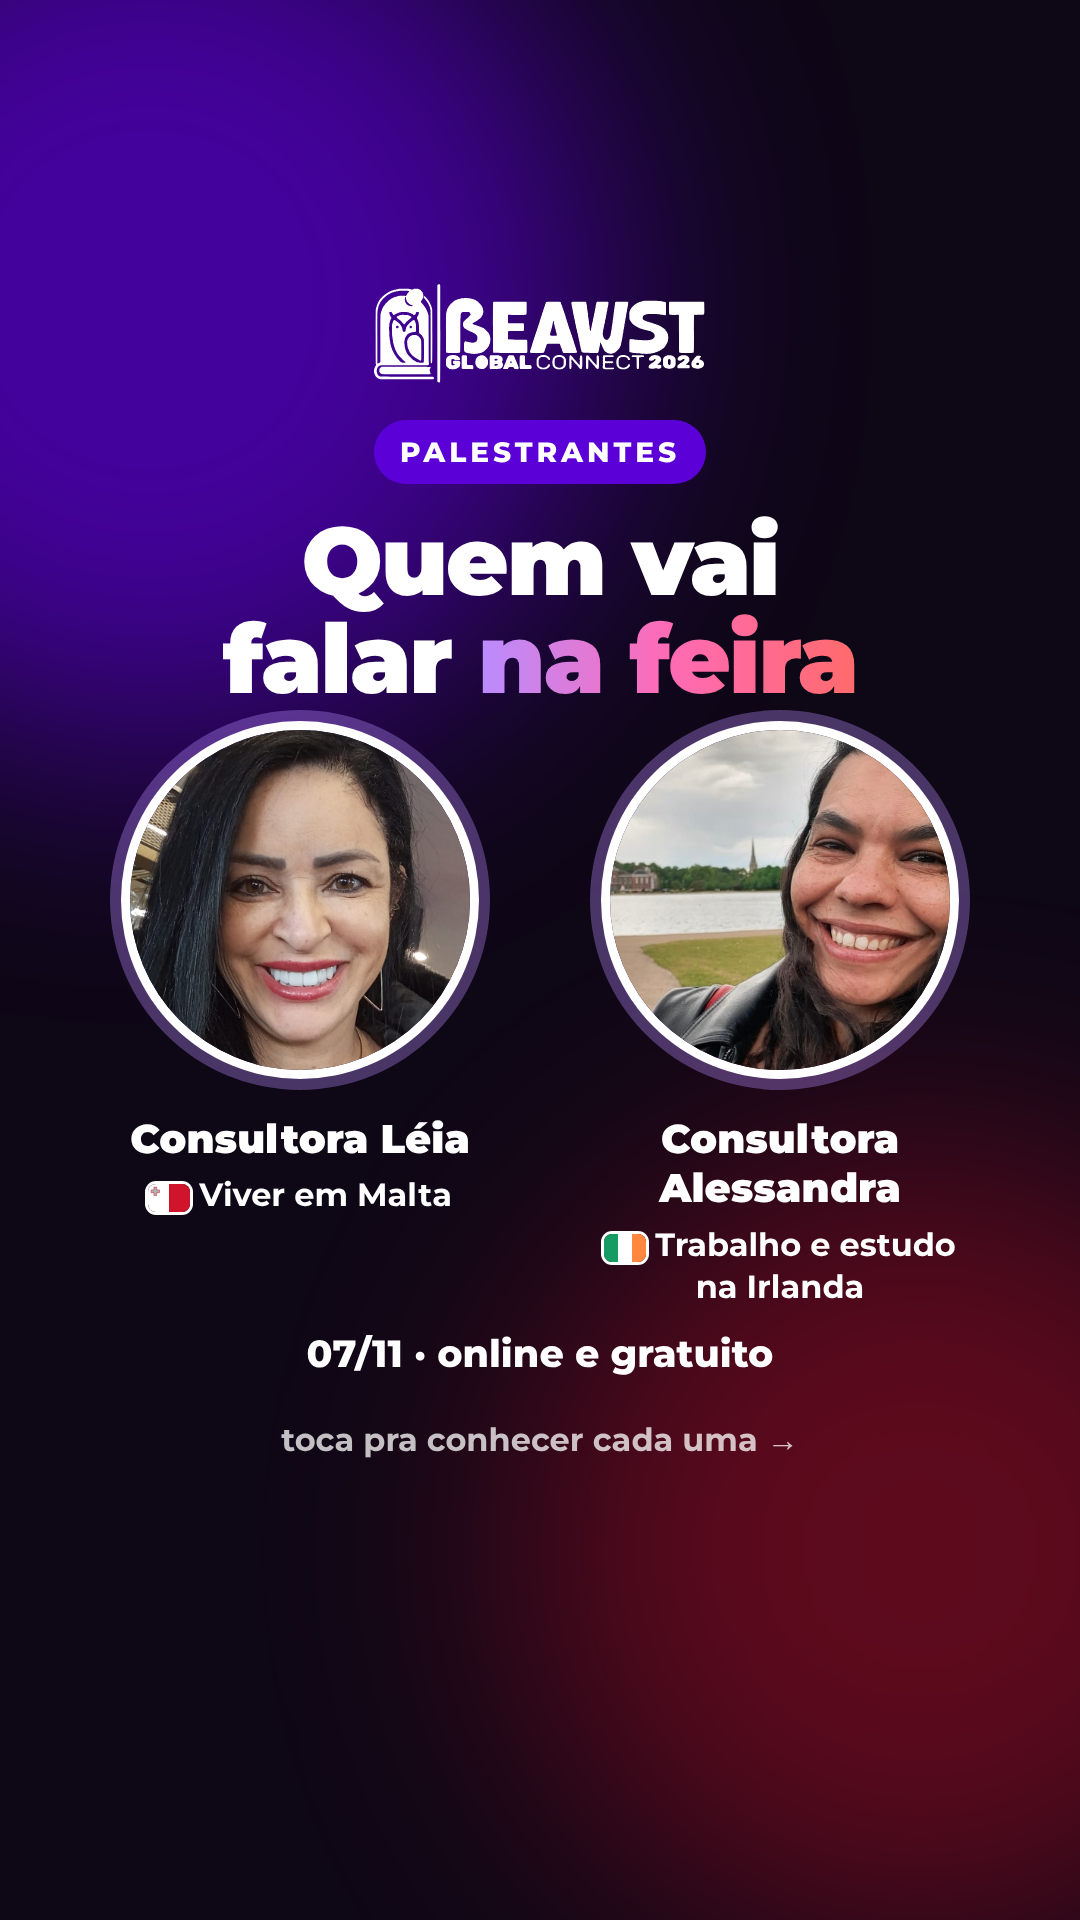
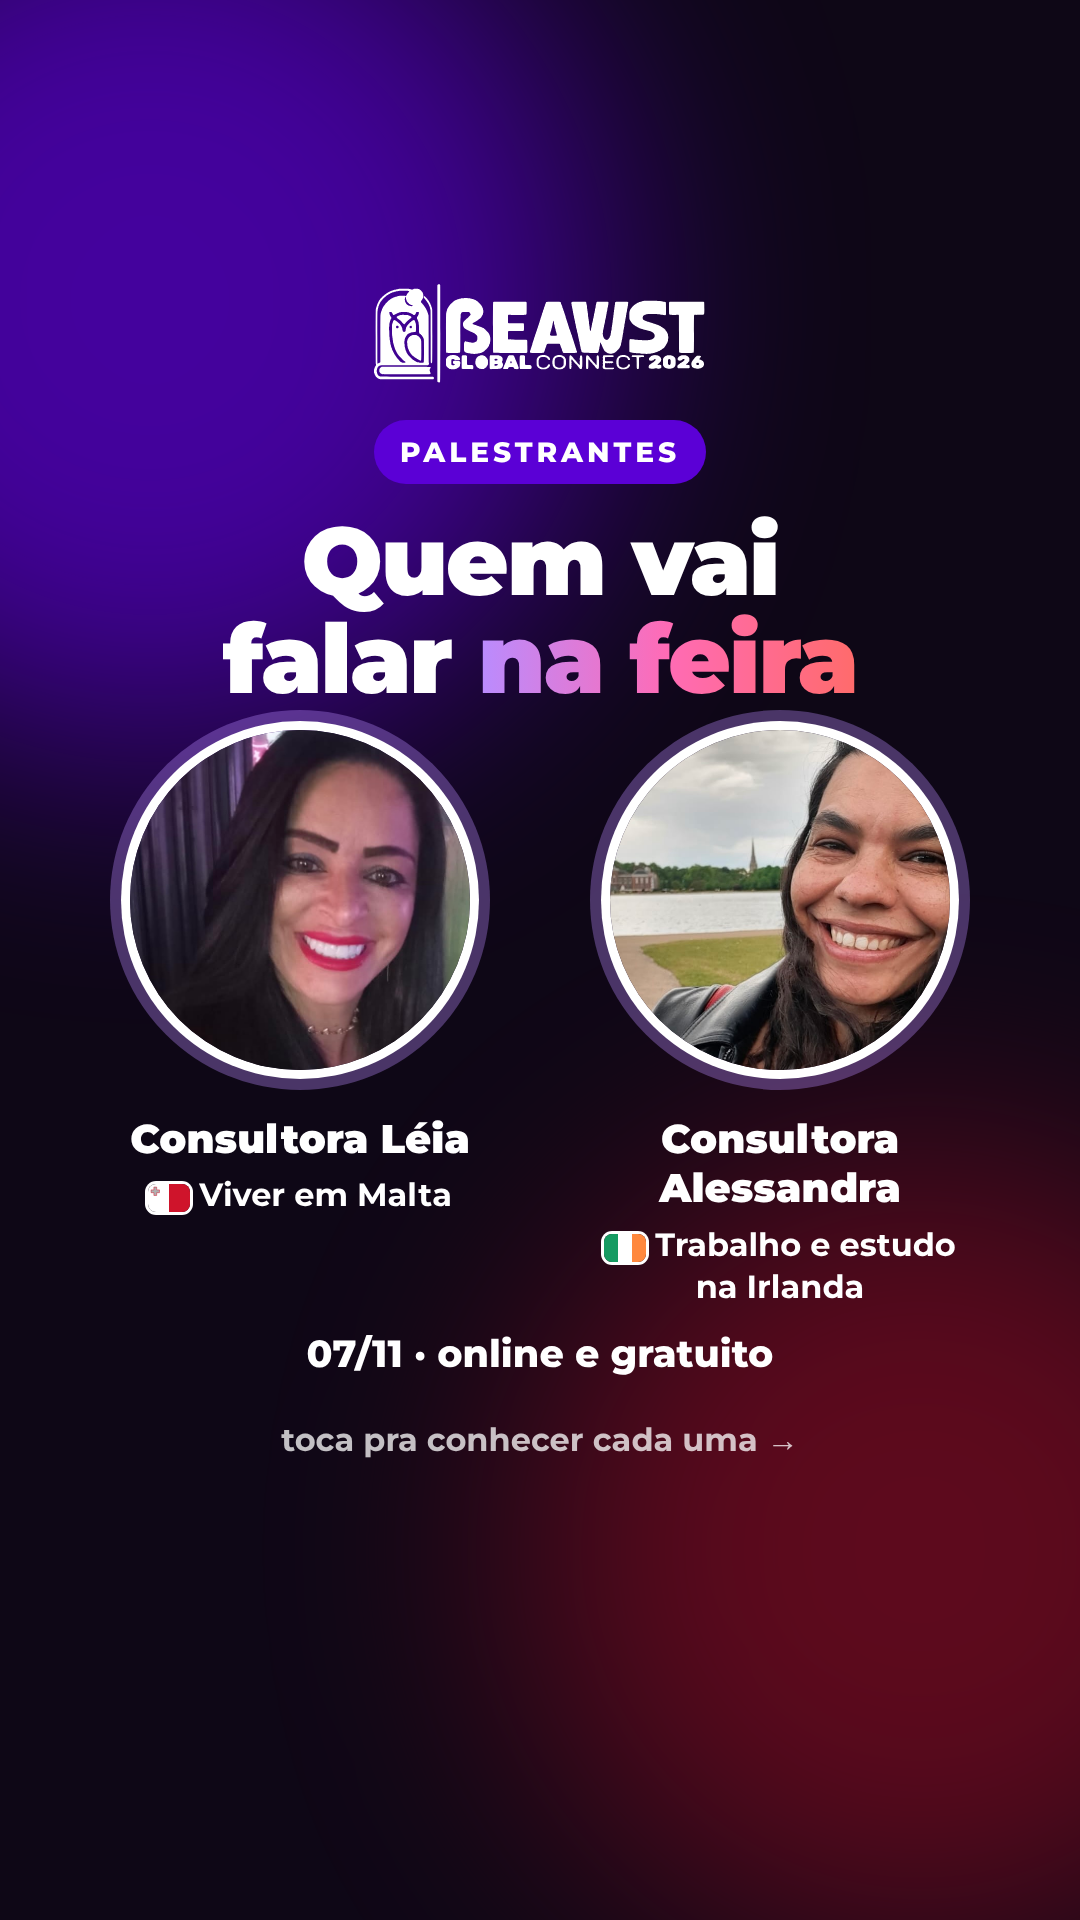
Nova foto da Consultora Léia em todas as peças
Claude-Session: https://claude.ai/code/session_01KyHVk97BxwCKQz2piQjfor

Changed region(s): [[0.1222, 0.375, 0.4278, 0.5625]]

diff --git a/beawst-stories-palestrantes/stories.html b/beawst-stories-palestrantes/stories.html
@@ -49,7 +49,7 @@ body.guia .guide{display:flex}
   <div class="abs c" style="top:420px"><span class="pill">palestrantes</span>
     <div class="huge" style="font-size:96px;margin-top:28px">Quem vai falar <span class="gradL">na feira</span></div></div>
   <div class="abs" style="left:110px;top:730px;width:380px;text-align:center">
-    <div class="circ" style="width:340px;height:340px;margin:0 auto"><img src="assets/leia.jpg" style="object-position:50% 42%;transform:scale(1.7);transform-origin:50% 46%"></div>
+    <div class="circ" style="width:340px;height:340px;margin:0 auto"><img src="assets/leia.jpg" style="object-position:55% 30%;transform:scale(1.02);transform-origin:58% 40%"></div>
     <div style="font-weight:900;font-size:40px;margin-top:44px">Consultora Léia</div>
     <div style="font-weight:700;font-size:32px;margin-top:12px"><span class="flag" style="width:42px;height:28px"><svg><use href="#malta"/></svg></span> Viver em Malta</div>
   </div>
@@ -70,7 +70,7 @@ body.guia .guide{display:flex}
     <span class="pill" style="background:#fff;color:var(--roxo)">palestrante</span>
     <img src="assets/logo-feira-branco.svg" style="width:260px;display:block"></div>
   <div class="card" style="left:220px;top:390px;width:640px;height:600px;transform:rotate(-2deg)">
-    <img src="assets/leia.jpg" style="object-position:50% 42%;transform:scale(1.35);transform-origin:50% 46%"></div>
+    <img src="assets/leia.jpg" style="object-position:50% 30%"></div>
   <div class="abs" style="left:190px;top:950px;transform:rotate(-2deg)"><span class="pill" style="background:var(--escuro);font-size:34px;padding:18px 30px">Consultora Léia</span></div>
   <div class="abs c" style="top:1060px">
     <div class="huge" style="font-size:96px"><span class="flag" style="width:96px;height:64px;margin-right:18px;transform:translateY(-8px)"><svg><use href="#malta"/></svg></span>Viver em Malta</div>

diff --git a/beawst-carrossel-programacao/carrossel.html b/beawst-carrossel-programacao/carrossel.html
@@ -9,7 +9,7 @@
 // Horário vazio ('') não aparece no slide. Preencha (ex.: '8h30') quando tiver a grade.
 const PROGRAMA = [
   { hora: '', titulo: 'Abertura com Samanta Lopes', sub: 'apresentadora oficial', foto: 'assets/apresentadora.jpg', pos: '50% 22%', zoom: 1.45, origem: '50% 30%' },
-  { hora: '', titulo: 'Viver em Malta', sub: 'com a Consultora Léia', bandeira: 'malta', foto: 'assets/leia.jpg', pos: '50% 42%', zoom: 1.7, origem: '50% 46%',
+  { hora: '', titulo: 'Viver em Malta', sub: 'com a Consultora Léia', bandeira: 'malta', foto: 'assets/leia.jpg', pos: '55% 30%', zoom: 1.02, origem: '58% 40%',
     desc: 'A realidade e as oportunidades da ilha com quem mora lá há 14 anos.' },
   { hora: '', titulo: 'Trabalho e estudo na Irlanda', sub: 'com a Consultora Alessandra', bandeira: 'irlanda', foto: 'assets/alessandra.jpg', pos: '100% 38%', zoom: 1.12, origem: '100% 45%',
     desc: 'Os processos de estudo e trabalho no destino mais procurado da Europa.' },

diff --git a/beawst-transmissao/telas.html b/beawst-transmissao/telas.html
@@ -22,7 +22,7 @@ const HOLES = {
 window.HOLES = HOLES;
 // palestrantes: foto em assets/palestrantes/ (se faltar, aparece a inicial)
 const PALESTRANTES = {
-  leia: { nome: 'Consultora Léia', tema: 'Viver em Malta', bandeira: 'malta', foto: 'assets/palestrantes/leia.jpg', fotoPos: '50% 42%', fotoZoom: 1.7, fotoOrigem: '50% 46%',
+  leia: { nome: 'Consultora Léia', tema: 'Viver em Malta', bandeira: 'malta', foto: 'assets/palestrantes/leia.jpg', fotoPos: '55% 30%', fotoZoom: 1.02, fotoOrigem: '58% 40%',
     desc: 'Conheça a realidade e as oportunidades da ilha com quem mora lá há 14 anos.' },
   alessandra: { nome: 'Consultora Alessandra', tema: 'Trabalho e estudo na Irlanda', bandeira: 'irlanda', foto: 'assets/palestrantes/alessandra.jpg', fotoPos: '100% 38%', fotoZoom: 1.12, fotoOrigem: '100% 45%',
     desc: 'Conheça os processos de estudo e trabalho no destino mais procurado da Europa.' },
